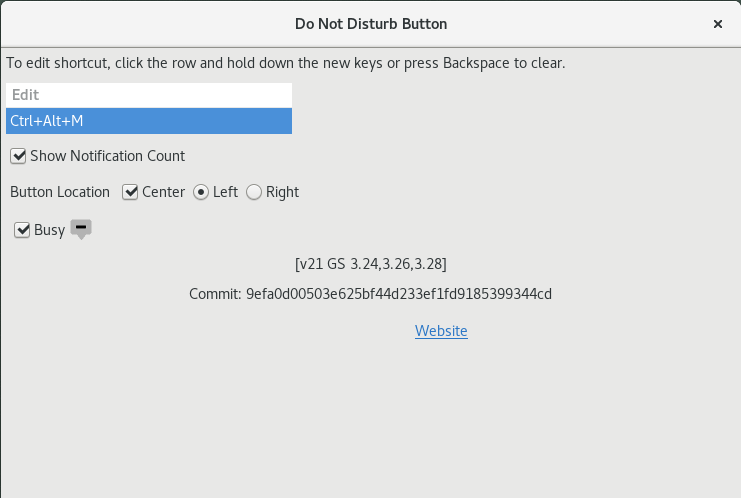
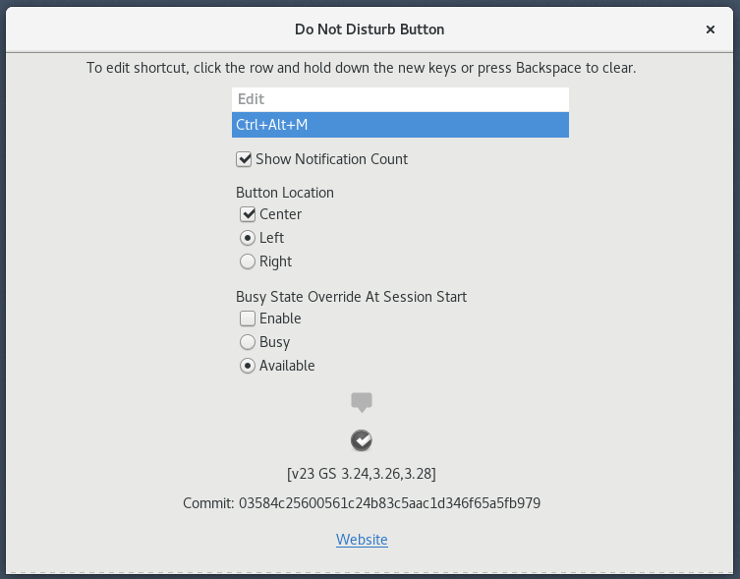
DND Button updated for version 23

diff --git a/DNDprefsimage.html b/DNDprefsimage.html
@@ -36,8 +36,17 @@ The entry area is accessible from the keyboard by typing tabs until the area bel
 Gnome Keyboard Shortcuts
 </a> for determining keys and key combinations which are currently in use.  A key or key combination which is used by Gnome should not be assigned to this extension. 
 </p>
-<p>The <b>Busy</b> check box automatically determines the <b>Available</b><img src="./images/available-yes.png"> or <b>Busy</b> <img src="./images/available-no.png"> state at login.
-On Lock Screen the current extension state is not saved when the extension is disabled.  On login to Unlock Screen the extension is set to the Busy state preference.
+<p>
+The <b>Busy State Override At Session Start</b> preference consists
+of an "Enable" checkbox, "Busy" radiobutton and "Available" radiobutton.
+If "Enable" is unchecked, the default is the state of the extension panel button
+controls the busy state indicated by the icon in a persistent manner.  Whatever state the
+icon indicated when the session ended or was interrupted by a screen lock or
+user switch determines the state at the next session login or re-login
+after a screen lock or user switch.  If the "Enable" is checked the state
+indicated by the selected radiobutton will only set the state at the next
+new session startup login; otherwise, the persistent behavoir set
+by the extension panel button is in effect.
 </p>
 </body>
 </html>

diff --git a/donotdisturb_button_zip.html b/donotdisturb_button_zip.html
@@ -22,6 +22,8 @@
 <p>With the <strong>secondary mouse button</strong>, click (v)ersion number in first column, then open link in a new tab or window to download.</p>
 <table>
 <tr><td><h3>Do Not Disturb Button</h3></td><td>&nbsp&nbsp&nbsp</td><td><h3>Gnome Shell Version(s)</h3></td></tr>
+<tr><td><a href="https://extensions.gnome.org/review/download/8207.shell-extension.zip">v23</a></td><td>&nbsp&nbsp&nbsp</td><td><strong>3.24 3.26 3.28</strong></td></tr>
+<tr><td><a href="https://extensions.gnome.org/review/download/8074.shell-extension.zip">v22</a></td><td>&nbsp&nbsp&nbsp</td><td><strong>3.24 3.26 3.28</strong></td></tr>
 <tr><td><a href="https://extensions.gnome.org/review/download/8063.shell-extension.zip">v21</a></td><td>&nbsp&nbsp&nbsp</td><td><strong>3.24 3.26 3.28</strong></td></tr>
 <tr><td><a href="https://extensions.gnome.org/review/download/7742.shell-extension.zip">v20</a></td><td>&nbsp&nbsp&nbsp</td><td><strong>3.16 3.18 3.20 3.22 3.24 3.26</strong></td></tr>
 <tr><td><a href="https://extensions.gnome.org/review/download/7727.shell-extension.zip">v19</a></td><td>&nbsp&nbsp&nbsp</td><td><strong>3.16 3.18 3.20 3.22 3.24 3.26</strong></td></tr>

diff --git a/DNDfeatures.html b/DNDfeatures.html
@@ -33,7 +33,8 @@ footer { font-family: Verdana, sans-serif; margin:5px; font-size:0.7em; backgrou
         <li>A keyboard shortcut can be assigned to perform the toggle function.</li>
         <li>An optional count of active notifications is displayed next to the panel button.</li>
         <li>The position of the button on the panel is a preference setting.</li>
-        <li>The Busy or Available state is automatically set at login based on the Busy preference setting.
+        <li>The Busy or Available state is persistent and is maintained during the current session and on the next system restart depending on the 
+        Busy State Override At Session Start preference. 
        </ul>
 		 <p>
 		  When the extension is in the Busy state non-critical notifications are not displayed to

diff --git a/DNDlatestupdate.html b/DNDlatestupdate.html
@@ -19,6 +19,13 @@ Update or install the Do Not Disturb Button extension at the Gnome Shell Extensi
 Download the zip-file for the Do Not Disturb Button extension from the Gnome Shell Extension Website.
 </a>
 </h5>
+<h4>Latest Update Version 23 GS 3.24 3.26 3.28</h4>
+Corrected metadata.json to reflect GS 3.24 3.26 3.28.
+<p>
+<h4>Update Version 22 GS 3.20 3.22 3.24 3.26 3.28</h4>
+Added persistent busy-available state logic with selectable override at session start-up.  See README.txt 2018-04-19 entry for details.
+<p>
+</p>
 <h4>Latest Update Version 21 GS 3.24 3.26 3.28</h4>
 <p>Added GS version 3.28 to meta data.
 </p>
